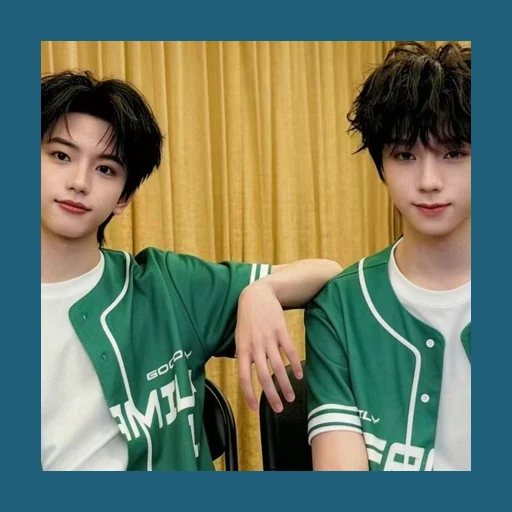
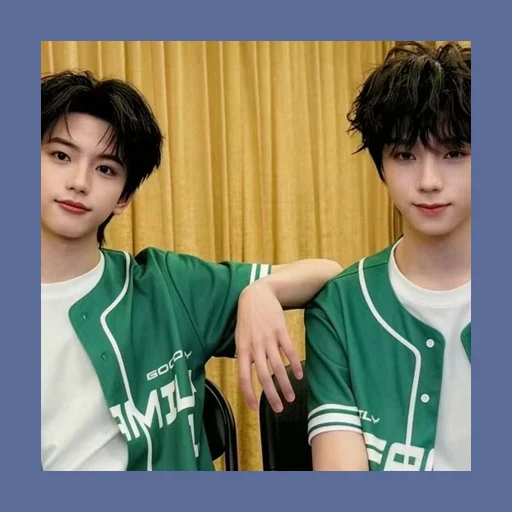
Switch the 橹穆 theme from lake teal to a soft blue-pink.
Misty periwinkle is the main color, with dusty rose as the accent. Month-card wash and date typography are unchanged.

Changed region(s): [[0.0, 0.0, 1.0, 1.0]]

diff --git a/css/app.css b/css/app.css
@@ -1,25 +1,25 @@
-/* 橹穆 — lake-teal theme, mobile-first */
+/* 橹穆 — 蓝粉 theme, mobile-first */
 :root {
-  --peach: #1F5F7A;
-  --coral: #1F5F7A;
-  --coral-dark: #16485C;
-  --coral-deep: #0E3140;
-  --bg: #F3F7F9;
+  --peach: #C9A3B5;
+  --coral: #5C6B98;
+  --coral-dark: #4A5780;
+  --coral-deep: #3A4568;
+  --bg: #F4F3F8;
   --card: #ffffff;
   --text: #3A1A16;
-  --muted: #5A7380;
-  --line: #D4E0E6;
+  --muted: #6B6F86;
+  --line: #E2DDE8;
   --国定: #FFE97F;
   --休: #FDE2E2;
   --年休: #C6E0B4;
-  --班: #DCE6F1;
-  --今天: #FFD966;
-  --周末: #F8E8E6;
-  --high: #D9534F;
+  --班: #E0E4F0;
+  --今天: #F4D2DA;
+  --周末: #F4E8EE;
+  --high: #C45C6A;
   --mid: #E89A3C;
   --low: #9A908C;
   --ok: #3D7A3D;
-  --shadow: 0 8px 24px rgba(31, 95, 122, 0.12);
+  --shadow: 0 8px 24px rgba(92, 107, 152, 0.12);
   --safe-top: env(safe-area-inset-top, 0px);
   --safe-bottom: env(safe-area-inset-bottom, 0px);
   --safe-left: env(safe-area-inset-left, 0px);
@@ -56,7 +56,7 @@ a { color: var(--coral-dark); }
 /* ===== Header ===== */
 .topbar {
   position: sticky; top: 0; z-index: 20;
-  background: linear-gradient(120deg, #0E3140 0%, #1F5F7A 55%, #2A7A96 100%);
+  background: linear-gradient(120deg, #3E4A72 0%, #5C6B98 52%, #6E6A94 100%);
   color: #fff;
   padding: calc(var(--safe-top) + 10px) 16px 12px;
   display: flex; align-items: center; justify-content: space-between;
@@ -98,7 +98,7 @@ a { color: var(--coral-dark); }
   width: 100%;
   height: 200px;
   overflow: hidden;
-  background: #2A1830;
+  background: #2A2838;
 }
 .today-card .hero img {
   width: 100%;
@@ -152,7 +152,7 @@ a { color: var(--coral-dark); }
 .stat span { font-size: 11px; color: var(--muted); }
 .quote {
   grid-column: 1 / -1;
-  background: linear-gradient(135deg, #F3F7F9, #D5E6ED);
+  background: linear-gradient(135deg, #F4F3F8, #E8DFEC);
   border-radius: 12px;
   padding: 10px 12px;
   font-size: 13px;
@@ -175,7 +175,7 @@ a { color: var(--coral-dark); }
 }
 .btn-primary { background: var(--coral); color: #fff; }
 .btn-primary:active { background: var(--coral-dark); }
-.btn-ghost { background: #fff; color: var(--coral-dark); border: 1px solid #C4D8E0; }
+.btn-ghost { background: #fff; color: var(--coral-dark); border: 1px solid #D4CEE0; }
 .btn-danger { background: #FDE2E2; color: #9E2A2A; }
 
 .hint {
@@ -238,7 +238,7 @@ a { color: var(--coral-dark); }
 }
 .dow { font-size: 9px; color: var(--muted); padding-bottom: 2px; }
 .dow span:nth-child(6), .dow span:nth-child(7),
-.month-dow span:nth-child(6), .month-dow span:nth-child(7) { color: #C45A50; }
+.month-dow span:nth-child(6), .month-dow span:nth-child(7) { color: #A85A70; }
 .mini .cell {
   min-height: 28px;
   border-radius: 6px;
@@ -300,7 +300,7 @@ a { color: var(--coral-dark); }
   color: inherit;
   display: flex; flex-direction: column;
   gap: 1px;
-  box-shadow: 0 1px 0 rgba(158, 63, 46, 0.04);
+  box-shadow: 0 1px 0 rgba(92, 107, 152, 0.06);
   overflow: hidden;
 }
 .mcell.is-muted { visibility: hidden; }
@@ -315,7 +315,7 @@ a { color: var(--coral-dark); }
 }
 .badge-休, .badge-国定 { background: #F5C6C2; color: #8A2A22; }
 .badge-年休 { background: #C6E0B4; color: #2E5E2E; }
-.badge-班 { background: #B9CDE0; color: #1F4A73; }
+.badge-班 { background: #C9CEDF; color: #3A4568; }
 .mcell .lab {
   font-size: 9px; color: var(--coral-deep);
   line-height: 1.2;
@@ -335,14 +335,14 @@ a { color: var(--coral-dark); }
 .mcell.kind-国定 { background: #FFF6C8; }
 .mcell.kind-休 { background: #FDECEC; }
 .mcell.kind-年休 { background: #E7F5DC; }
-.mcell.kind-班 { background: #E8F0F8; }
-.mcell.kind-周末 { background: #FDF0EC; }
-.mcell.is-today { box-shadow: inset 0 0 0 2px var(--coral); background: #FFF3C2; }
+.mcell.kind-班 { background: #E8EAF4; }
+.mcell.kind-周末 { background: #F8EAF0; }
+.mcell.is-today { box-shadow: inset 0 0 0 2px var(--coral); background: #F8E4EA; }
 
 /* ===== Day sheet ===== */
 .backdrop {
   position: fixed; inset: 0; z-index: 40;
-  background: rgba(58, 26, 22, 0.45);
+  background: rgba(58, 54, 80, 0.45);
   display: flex; align-items: flex-end; justify-content: center;
 }
 .sheet {
@@ -362,7 +362,7 @@ a { color: var(--coral-dark); }
 }
 .grab {
   width: 40px; height: 4px; border-radius: 2px;
-  background: #D4A8A0; margin: 4px auto 8px;
+  background: #C9B0C0; margin: 4px auto 8px;
 }
 .sheet h2 { margin: 0 0 4px; font-size: 20px; }
 .sheet .meta { font-size: 13px; color: var(--muted); margin-bottom: 4px; line-height: 1.5; }
@@ -375,7 +375,7 @@ a { color: var(--coral-dark); }
 .pill-国定 { background: var(--国定); }
 .pill-休 { background: var(--休); color: #8A2A22; }
 .pill-年休 { background: var(--年休); color: #2E5E2E; }
-.pill-班 { background: var(--班); color: #1F4A73; }
+.pill-班 { background: var(--班); color: #3A4568; }
 .pill-周末 { background: var(--周末); }
 .item-card {
   background: var(--card);
@@ -503,7 +503,7 @@ a { color: var(--coral-dark); }
 .mini.has-photo .cell.kind-班 { background: rgba(220, 230, 241, 0.80); }
 .mini.has-photo .cell.kind-周末 { background: rgba(255, 232, 238, 0.72); }
 .mini.has-photo .cell.is-today {
-  background: rgba(255, 217, 102, 0.92);
+  background: rgba(244, 210, 218, 0.92);
   box-shadow: inset 0 0 0 1.5px var(--coral);
 }
 
@@ -517,7 +517,7 @@ a { color: var(--coral-dark); }
 }
 .month-wrap.has-photo .mcell {
   background: rgba(255, 255, 255, 0.42);
-  box-shadow: 0 1px 0 rgba(190, 78, 104, 0.06);
+  box-shadow: 0 1px 0 rgba(92, 107, 152, 0.06);
 }
 .month-wrap.has-photo .mcell.kind-国定 { background: rgba(255, 246, 200, 0.82); }
 .month-wrap.has-photo .mcell.kind-休 { background: rgba(253, 236, 236, 0.84); }
@@ -525,7 +525,7 @@ a { color: var(--coral-dark); }
 .month-wrap.has-photo .mcell.kind-班 { background: rgba(232, 240, 248, 0.84); }
 .month-wrap.has-photo .mcell.kind-周末 { background: rgba(255, 232, 238, 0.76); }
 .month-wrap.has-photo .mcell.is-today {
-  background: rgba(255, 243, 194, 0.94);
+  background: rgba(248, 228, 234, 0.94);
   box-shadow: inset 0 0 0 2px var(--coral);
 }
 

diff --git a/css/widget.css b/css/widget.css
@@ -1,14 +1,14 @@
 /* 锁屏壁纸预览 — 橹穆 */
 :root {
-  --red: #1F5F7A;
-  --red-soft: #2A7A96;
+  --red: #5C6B98;
+  --red-soft: #6E6A94;
   --safe-top: env(safe-area-inset-top, 0px);
   --safe-bottom: env(safe-area-inset-bottom, 0px);
 }
 * { box-sizing: border-box; -webkit-tap-highlight-color: transparent; }
 html, body {
   margin: 0; padding: 0; height: 100%;
-  background: #0A1A22; color: #fff;
+  background: #16141E; color: #fff;
   font-family: -apple-system, BlinkMacSystemFont, "PingFang SC", "Hiragino Sans GB",
     "Noto Sans SC", "Microsoft YaHei", sans-serif;
   overflow: hidden;
@@ -16,7 +16,7 @@ html, body {
 #stage {
   position: fixed; inset: 0;
   overflow: hidden;
-  background: #0A1A22;
+  background: #16141E;
 }
 .bg {
   position: absolute; inset: 0;
@@ -32,12 +32,12 @@ html, body {
   pointer-events: none;
   background:
     linear-gradient(180deg,
-      rgba(8, 18, 24, 0.28) 0%,
-      rgba(8, 18, 24, 0.06) 14%,
-      rgba(8, 18, 24, 0.10) 26%,
-      rgba(8, 18, 24, 0.38) 48%,
-      rgba(8, 18, 24, 0.62) 78%,
-      rgba(8, 18, 24, 0.78) 100%);
+      rgba(22, 20, 36, 0.28) 0%,
+      rgba(22, 20, 36, 0.06) 14%,
+      rgba(22, 20, 36, 0.10) 26%,
+      rgba(22, 20, 36, 0.38) 48%,
+      rgba(22, 20, 36, 0.62) 78%,
+      rgba(22, 20, 36, 0.78) 100%);
 }
 .content {
   position: relative;
@@ -80,7 +80,7 @@ html, body {
   font-size: 12px;
   font-weight: 600;
   letter-spacing: 0.06em;
-  background: rgba(31, 95, 122, 0.72);
+  background: rgba(92, 107, 152, 0.72);
   border: 1px solid rgba(255, 255, 255, 0.28);
   backdrop-filter: blur(12px);
   -webkit-backdrop-filter: blur(12px);
@@ -93,9 +93,9 @@ html, body {
   margin-bottom: 8px;
   padding: 20px 22px 18px;
   border-radius: 20px;
-  background: rgba(255, 255, 255, 0.14);
-  border: 1px solid rgba(255, 255, 255, 0.28);
-  box-shadow: 0 10px 30px rgba(0, 0, 0, 0.22);
+  background: rgba(244, 235, 245, 0.18);
+  border: 1px solid rgba(232, 210, 224, 0.42);
+  box-shadow: 0 10px 30px rgba(58, 54, 80, 0.28);
   backdrop-filter: blur(22px);
   -webkit-backdrop-filter: blur(22px);
   cursor: default;
@@ -148,7 +148,7 @@ html, body {
   text-align: center;
   text-decoration: none;
   color: #fff;
-  background: rgba(20, 6, 6, 0.55);
+  background: rgba(30, 28, 42, 0.55);
   border: 1px solid rgba(255, 255, 255, 0.28);
   border-radius: 999px;
   padding: 10px 8px;
@@ -159,4 +159,4 @@ html, body {
   cursor: default;
 }
 .toolbar .bar button:active,
-.toolbar .bar a:active { background: rgba(145, 16, 5, 0.7); }
+.toolbar .bar a:active { background: rgba(92, 107, 152, 0.75); }

diff --git a/index.html b/index.html
@@ -7,7 +7,7 @@
   <meta name="mobile-web-app-capable" content="yes">
   <meta name="apple-mobile-web-app-status-bar-style" content="black-translucent">
   <meta name="apple-mobile-web-app-title" content="橹穆">
-  <meta name="theme-color" content="#1F5F7A">
+  <meta name="theme-color" content="#5C6B98">
   <meta name="format-detection" content="telephone=no">
   <meta name="description" content="橹穆：全年总览、农历节气、行事历休班与待办。">
   <title>橹穆</title>

diff --git a/widget.html b/widget.html
@@ -6,7 +6,7 @@
   <meta name="apple-mobile-web-app-capable" content="yes">
   <meta name="mobile-web-app-capable" content="yes">
   <meta name="apple-mobile-web-app-status-bar-style" content="black-translucent">
-  <meta name="theme-color" content="#0A1A22">
+  <meta name="theme-color" content="#16141E">
   <meta name="format-detection" content="telephone=no">
   <meta name="description" content="橹穆锁屏壁纸预览。">
   <title>锁屏预览 · 橹穆</title>

diff --git a/sw.js b/sw.js
@@ -1,5 +1,5 @@
 /* 橹穆 service worker — static, cache-first, relative URLs */
-const CACHE = "cal2027-lm-v1";
+const CACHE = "cal2027-lm-v2";
 /* Shell only on install. Photos are cached at runtime (cache-first).
    The page posts {type:"precache", urls:[...]} for the current-month images. */
 const ASSETS = [

diff --git a/README.md b/README.md
@@ -1,6 +1,6 @@
 # 橹穆
 
-这是现有 [2027日历](https://zunyaner.github.io/calendar-2027/) 的个人主题版：功能相同，首页和月份卡片换成你提供的照片，原来放名言的位置只放一句「穆之所及，杰是美好。」。主题色用湖水青 `#1F5F7A`。每个月的日历卡片会垫一张半透明的照片，按月固定。
+这是现有 [2027日历](https://zunyaner.github.io/calendar-2027/) 的个人主题版：功能相同，首页和月份卡片换成你提供的照片，原来放名言的位置只放一句「穆之所及，杰是美好。」。主题色是蓝粉色：主色用雾蓝偏紫 `#5C6B98`，点缀浅玫瑰粉 `#C9A3B5`。每个月的日历卡片会垫一张半透明的照片，按月固定。
 
 这是个人日历，原来的公司日历和其他主题版都不受影响，可以同时装在桌面上，事项也是分开存放的。
 
